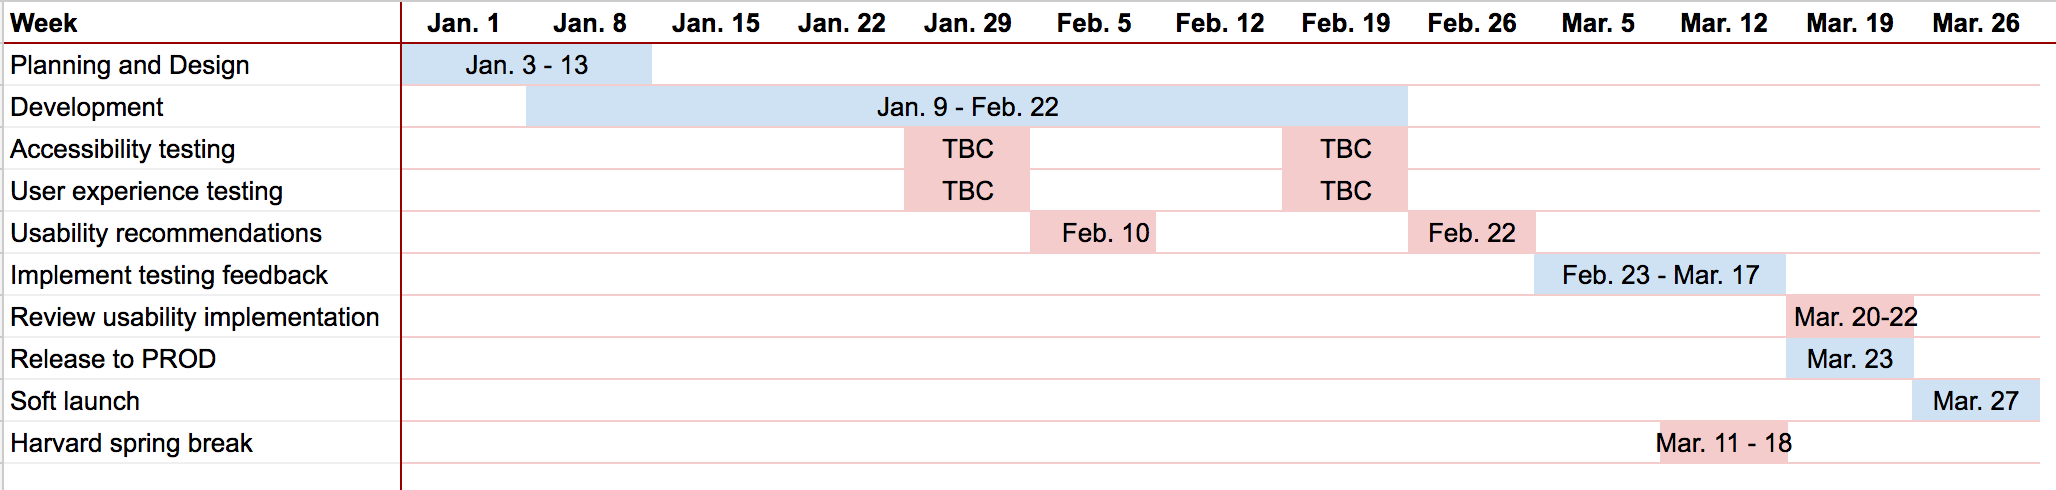
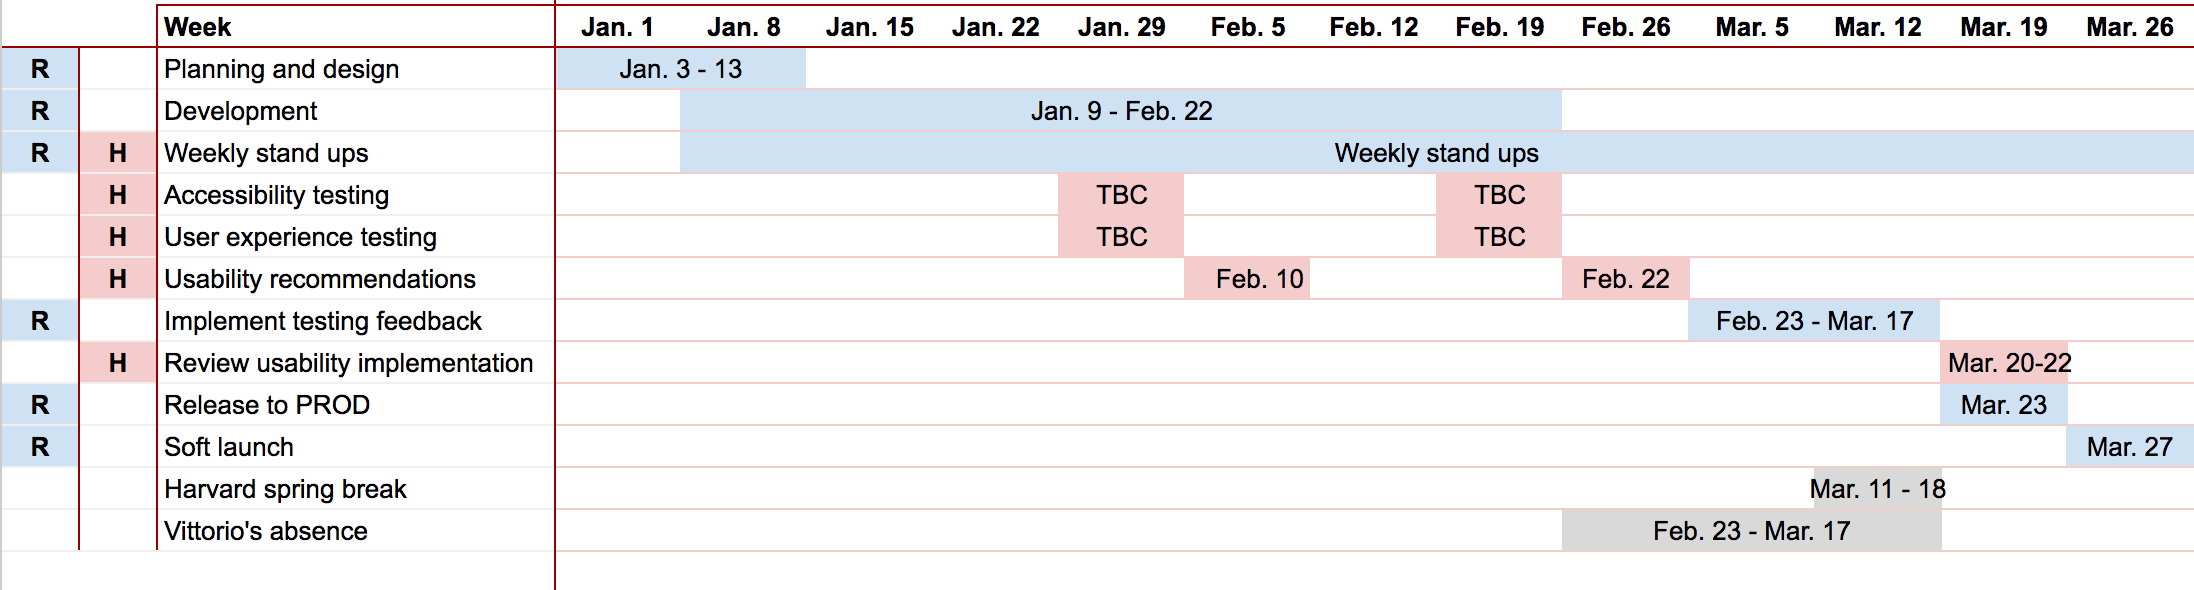
ServiceNow schedule and user flow

Changed region(s): [[0.0, 0.0, 1.0, 0.949]]

diff --git a/evaluation/ServiceNow/index.html b/evaluation/ServiceNow/index.html
@@ -70,6 +70,7 @@
         <div class="col-sm-3 col-md-2 sidebar">
           <ul class="nav nav-pills nav-stacked left-menu" id="stacked-menu" style="margin-left:-2em">
             <li><a href="#Schedule">Schedule</a></li>
+            <li><a href="#userFlow">User Flow</a></li>
             <!--<li>-->
               <!--<a-->
               <!--href="#Task1"-->
@@ -109,7 +110,11 @@
         <div class="col-sm-9 col-sm-offset-3 col-md-10 col-md-offset-2 main" id="Overview">
 
           <div class="col-sm-12">
-            <h1 class="page-header" id="Overview" style="padding-top: 1.5em">Accessibility and User Experience Schedule</h1>
+            <h1 class="page-header" id="">Accessibility and User Experience</h1>
+          </div>
+
+          <div class="col-sm-12">
+            <h2 class="page-header" id="Schedule">Schedule</h2>
           </div>
 
           <div class="col-sm-12">
@@ -128,6 +133,160 @@
                         src="2017_User_Experience_ServiceNow_schedule.png"
                         title="2017 User Experience ServiceNow schedule"
                         width="100%">
+            </div>
+            <div class="col-sm-12">
+                <h4>Legend</h4>
+                <table class="table table-condensed"
+                       style="font-size: 14px; line-height: 1.42857143; color: #333;">
+                    <tr>
+                        <td style="width: 15em">
+                            <div style="background-color: #cfe2f3; padding: .25em; width: 2em; text-align: center;">
+                                <strong>R</strong></div>
+                        </td>
+                        <td>
+                            New Rocket activities.
+                        </td>
+                    </tr>
+                    <tr>
+                        <td style="width: 15em">
+                            <div style="background-color: #f4cccc; padding: .25em; width: 2em; text-align: center;">
+                                <strong>H</strong></div>
+                        </td>
+                        <td>
+                            Harvard activities.
+                        </td>
+                    </tr>
+                    <tr>
+                        <td style="width: 15em">
+                            <div style="background-color: #cfe2f3; padding: .25em;">Weekly stand ups</div>
+                        </td>
+                        <td>
+                            New Rocket's work in progress (whether wire frames, mock ups, HTML pages) is reviewed,
+                            Accessibility and User Experience feedback is provided.
+                        </td>
+                    </tr>
+                    <tr>
+                        <td style="width: 15em">
+                            <div style="background-color: #f4cccc; padding: .25em;">Accessibility testing - TBC</div>
+                        </td>
+                        <td>
+                            To Be Confirmed. Accessibility testing will be scheduled in this week
+                            but the specific dates ae still to be confirmed.
+                        </td>
+                    </tr>
+                    <tr>
+                        <td style="width: 15em">
+                            <div style="background-color: #f4cccc; padding: .25em;">User experience testing - TBC</div>
+                        </td>
+                        <td>
+                            To Be Confirmed. User experience testing will be scheduled in this week
+                            but the specific dates ae still to be confirmed.
+                        </td>
+                    </tr>
+                </table>
+            </div>
+
+          <div class="col-sm-12">
+            <h2 class="page-header" id="userFlow">User Flow</h2>
+          </div>
+
+          <div class="col-sm-12">
+            <p>This is an example of a User Flow, as it is linked to the wire frames.</p>
+            <p>The User Flow shows the navigation criteria followed by a user in order to complete
+                all the tasks offered by the interface.</p>
+            <p>Each wire frame represents every single instance (web page) of the interface.</p>
+
+          </div>
+
+            <div class="col-sm-12">
+                <img
+                        src="userFlow.png"
+                        style="display: block; margin: 0 auto;"
+                        title="Example of a user flow"
+                        width="40%">
+            </div>
+            <div class="col-md-4">
+                <div class="panel panel-default">
+                    <div class="panel-body">
+                        <img
+                            src="wireframe_1_login.png"
+                            title="Example of a wireframe"
+                            width="100%">
+                    </div>
+                    <div class="panel-footer">Login (1)</div>
+                </div>
+            </div>
+
+            <div class="col-md-4">
+                <div class="panel panel-default">
+                    <div class="panel-body">
+                        <img
+                            src="wireframe_2_home.png"
+                            title="Example of a wireframe"
+                            width="100%">
+                    </div>
+                    <div class="panel-footer">Home page (2)</div>
+                </div>
+            </div>
+
+            <div class="col-md-4">
+                <div class="panel panel-default">
+                    <div class="panel-body">
+                        <img
+                            src="wireframe_3_serviceCatalog.png"
+                            title="Example of a wireframe"
+                            width="100%">
+                    </div>
+                    <div class="panel-footer">Service Catalog (3)</div>
+                </div>
+            </div>
+
+            <div class="col-md-4">
+                <div class="panel panel-default">
+                    <div class="panel-body">
+                        <img
+                            src="wireframe_4_knowledegeBase.png"
+                            title="Example of a wireframe"
+                            width="100%">
+                    </div>
+                    <div class="panel-footer">Knowledge Base home (4)</div>
+                </div>
+            </div>
+
+            <div class="col-md-4">
+                <div class="panel panel-default">
+                    <div class="panel-body">
+                        <img
+                            src="wireframe_5_knowledegeBase.png"
+                            title="Example of a wireframe"
+                            width="100%">
+                    </div>
+                    <div class="panel-footer">Knowledge Base detail (5)</div>
+                </div>
+            </div>
+
+            <div class="col-md-4">
+                <div class="panel panel-default">
+                    <div class="panel-body">
+                        <img
+                            src="wireframe_6_videoConferencing.png"
+                            title="Example of a wireframe"
+                            width="100%">
+                    </div>
+                    <div class="panel-footer">Video Conferencing (6)</div>
+                </div>
+            </div>
+
+            <div class="col-md-4">
+                <div class="panel panel-default">
+                    <div class="panel-body">
+                        <img
+                            src="wireframe_7_calendar.png"
+                            title="Example of a wireframe"
+                            width="100%">
+                    </div>
+                    <div class="panel-footer">Calendar (6)</div>
+                </div>
             </div>
 
           <div class="col-sm-12" style="height:10em">&nbsp;</div>
@@ -149,6 +308,38 @@
 <script type="text/javascript" src="bootstrap.min.js"></script>
 
 <!-- Bootstrap script for collapse side nav - end
+================================================== -->
+
+
+<!-- Script for smooth scroll - start
+================================================== -->
+    <script>
+      $(document).on('click', 'a[href*="#"]:not([href="#"])', function(e) {
+
+        if (location.pathname.replace(/^\//,'') === this.pathname.replace(/^\//,'') && location.hostname === this.hostname) {
+
+            var target = $(this.hash);
+
+            target = target.length ? target : $('[name=' + this.hash.slice(1) +']');
+
+              if (target.length) {
+
+                  $('html, body').animate({
+
+                      scrollTop: target.offset().top-70
+
+                  }, 1000);
+
+                  e.preventDefault();
+
+              }
+
+          }
+
+    });
+    </script>
+
+<!-- Script for smooth scroll - end
 ================================================== -->
   
 
